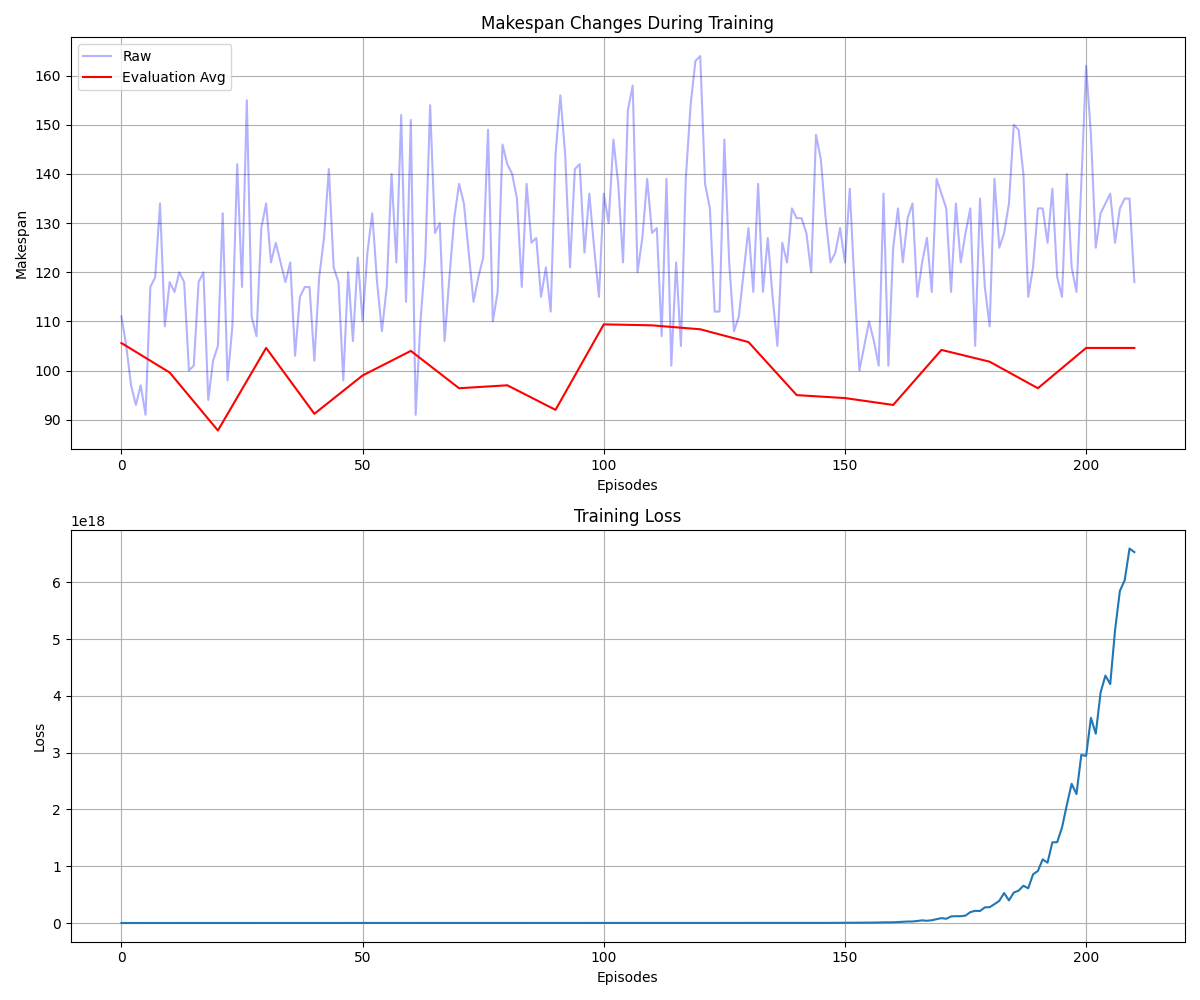
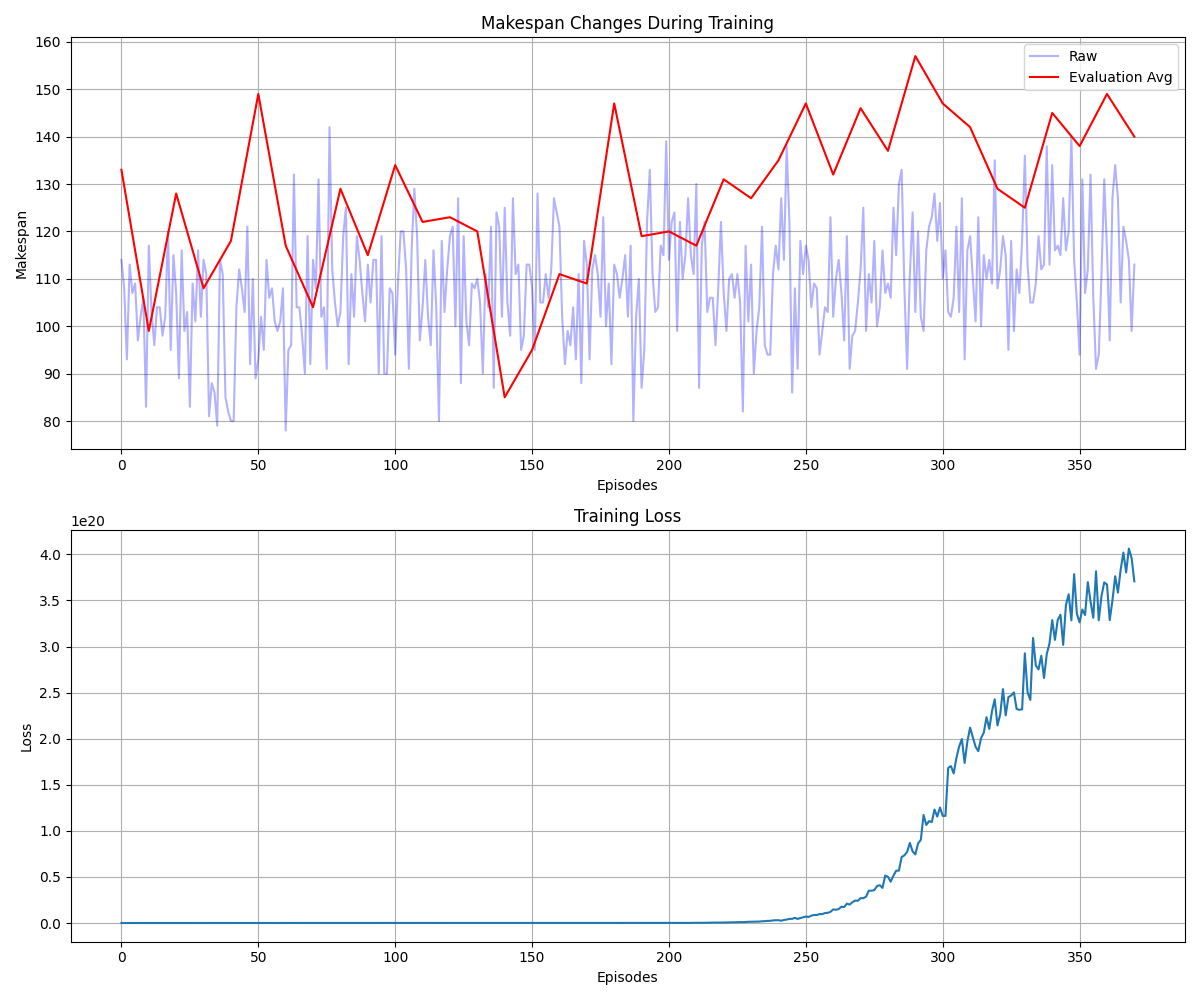
提升到79

diff --git a/train_dqn.py b/train_dqn.py
@@ -28,13 +28,18 @@ makespans = []
 avg_makespans = []  # 用于平滑的平均完工时间
 losses = []  # 记录损失
 
-# 收敛指标
+# 收敛指标 - 更合理的设置
 convergence_window = 50  # 检查连续50次评估的表现
-target_performance = 8  # 目标完工时间
-early_stopping_patience = 200  # 如果连续200轮没有改进，提前停止
+early_stopping_patience = 300  # 减少提前停止的耐心值
+target_performance = None  # 将在前100轮训练后动态设置
+min_epsilon = 0.05  # 最小探索率
 
 last_improvement = 0
 window_makespans = []
+
+# 在训练循环开始前添加探索率衰减逻辑
+epsilon = 1.0  # 初始探索率
+epsilon_decay = 0.998  # 每轮衰减率
 
 # 训练循环
 for episode in range(n_episodes):
@@ -56,14 +61,27 @@ for episode in range(n_episodes):
                 valid_actions.append(action)
         
         # 选择动作
-        action = agent.act(state, valid_actions)
+        action = agent.act(state, valid_actions, epsilon)
         
         # 执行动作
         next_state, reward, done, _ = env.step(action)
         
         # 增强奖励信号
-        if done and max(env.machine_available_time) <= 7:  # 如果完成且makespan很好
-            reward += 50  # 额外奖励
+        if done and max(env.machine_available_time) <= 60:  # 如果完成且makespan很好
+            reward += 500  # 额外奖励
+        
+        # 修改奖励函数 - 更加渐进的奖励
+        if done:
+            makespan = max(env.machine_available_time)
+            # 渐进式奖励，根据完工时间给予不同程度的奖励
+            if makespan <= 50:
+                reward += 100  # 非常出色的调度
+            elif makespan <= 60:
+                reward += 50  # 很好的调度
+            elif makespan <= 80:
+                reward += 20  # 良好的调度
+            elif makespan <= 90:
+                reward += 10  # 可接受的调度
         
         # 存储经验
         agent.remember(state, action, reward, next_state, done)
@@ -114,12 +132,12 @@ for episode in range(n_episodes):
                         action = op_idx * env.n_machines + machine_idx
                         eval_valid_actions.append(action)
                 
+                # 修正评估时的动作选择逻辑 - 使用纯贪婪策略
                 with torch.no_grad():
-                    eval_action = agent.act(eval_state, eval_valid_actions)
-                    eval_action = np.argmax(agent.q_network(torch.FloatTensor(eval_state.reshape(1, -1)).to(agent.device)).cpu().numpy()[0])
-                    # 确保选择的动作有效
-                    if eval_action not in eval_valid_actions:
-                        eval_action = np.random.choice(eval_valid_actions)
+                    q_values = agent.q_network(torch.FloatTensor(eval_state.reshape(1, -1)).to(agent.device)).cpu().numpy()[0]
+                    # 仅考虑有效动作
+                    valid_q_values = {a: q_values[a] for a in eval_valid_actions}
+                    eval_action = max(valid_q_values, key=valid_q_values.get)
                 
                 eval_next_state, _, eval_done, _ = env.step(eval_action)
                 eval_state = eval_next_state
@@ -130,11 +148,17 @@ for episode in range(n_episodes):
         avg_makespan = np.mean(eval_makespans)
         avg_makespans.append(avg_makespan)
         
+        # 动态设置目标完工时间
+        if episode == 100 and target_performance is None:
+            best_so_far = min(avg_makespans)
+            target_performance = max(best_so_far * 0.9, 8)  # 设置为当前最佳的90%或8，取较大值
+            print(f"Target performance dynamically set to: {target_performance}")
+        
         # 打印进度
         print(f"Episode {episode}/{n_episodes}, Makespan: {makespan}, Eval Avg: {avg_makespan:.1f}, Best: {best_makespan}")
         
         # 检查是否满足收敛条件
-        if avg_makespan <= target_performance:
+        if target_performance is not None and avg_makespan <= target_performance:
             print(f"Target performance reached at episode {episode}!")
             if episode > convergence_window and all(m <= target_performance * 1.1 for m in avg_makespans[-10:]):
                 print("Model converged to target performance. Stopping early.")
@@ -150,6 +174,11 @@ for episode in range(n_episodes):
         for param_group in agent.optimizer.param_groups:
             param_group['lr'] *= 0.9
         print(f"Learning rate adjusted to {agent.optimizer.param_groups[0]['lr']:.6f}")
+    
+    # 在每轮结束时更新探索率
+    epsilon = max(min_epsilon, epsilon * epsilon_decay)
+    if episode % test_freq == 0:
+        print(f"Current exploration rate (epsilon): {epsilon:.4f}")
 
 # 输出最佳调度结果
 print("\nBest Scheduling Result:")

diff --git a/Fjsp_env.py b/Fjsp_env.py
@@ -15,7 +15,7 @@ class FJSPEnvironment(gym.Env):
         # 计算总工序数
         self.total_ops = sum(len(job) for job in operations)
         
-        # 动作空间: 选择(工序, 机器)对
+        # 动作空间: 选择(工序, 机器)对，动作空间大小等于总工序数乘以机器数（这里动作空间肯定是大了，因为每个工序不是所有的机器都可以加工的）
         self.action_space = spaces.Discrete(self.total_ops * self.n_machines)
         
         # 观测空间
@@ -31,7 +31,7 @@ class FJSPEnvironment(gym.Env):
         
     def reset(self):
         """重置环境状态"""
-        # 作业状态: 当前工序索引
+        # 作业状态: 当前工序索引。创建一个列表，长度为作业数，每个元素初始化为0，表示每个作业的第一道工序未完成
         self.job_status = [0] * self.n_jobs
         
         # 机器状态: 每台机器的可用时间
@@ -65,8 +65,13 @@ class FJSPEnvironment(gym.Env):
             return self._get_observation(), reward, self.done, {}
         
         # 执行调度
+        # 通过工序索引获取作业索引和工序位置
         job_idx, op_pos = self._get_job_op_from_idx(op_idx)
-        op_options = self.operations[job_idx][op_pos]
+        
+        # 获取工序选项
+        # 这里假设operations是一个列表，包含每个作业的工序选项，每个工序选项是一个元组(机器索引, 加工时间)
+        # 例如：operations = [[(0, 2), (1, 3)], [(0, 4), (1, 1)]]表示作业1有两道工序，作业2也有两道工序
+        op_options = self.operations[job_idx][op_pos] 
         
         # 检查所选机器是否可以处理该工序
         valid_machines = [opt[0] for opt in op_options]
@@ -121,8 +126,8 @@ class FJSPEnvironment(gym.Env):
     
     def _decode_action(self, action):
         """解码动作为(工序索引, 机器索引)"""
-        op_idx = action // self.n_machines
-        machine_idx = action % self.n_machines
+        op_idx = action // self.n_machines      # action整除机器数得到工序索引 
+        machine_idx = action % self.n_machines  # action除以机器数取余得到机器索引
         return op_idx, machine_idx
     
     def _get_job_op_from_idx(self, op_idx):
@@ -198,7 +203,7 @@ class FJSPEnvironment(gym.Env):
         
         if self.done:
             # 完成所有工序，给予强化奖励
-            return 100 - current_makespan * 5  # 完成奖励，makespan越小奖励越大
+            return 1000 - current_makespan * 5  # 完成奖励，makespan越小奖励越大
         
         # 计算完成的工序百分比
         completed_ops = sum(self.job_status)

diff --git a/Dqn.py b/Dqn.py
@@ -85,11 +85,11 @@ class DQNAgent:
         self.device = torch.device("cuda" if torch.cuda.is_available() else "cpu")
         
         # 超参数调整
-        self.gamma = 0.99  # 增大折扣因子
+        self.gamma = 0.99  # 折扣因子
         self.epsilon = 1.0  # 探索率
-        self.epsilon_min = 0.05  # 提高最小探索率
-        self.epsilon_decay = 0.997  # 放缓衰减速度
-        self.learning_rate = 0.0005  # 降低学习率
+        self.epsilon_min = 0.05  # 最小探索率
+        self.epsilon_decay = 0.997  # 衰减速度
+        self.learning_rate = 0.0005  # 学习率
         self.update_target_freq = 50  # 更频繁地更新目标网络
         
         # 使用优先经验回放
@@ -128,30 +128,20 @@ class DQNAgent:
         """存储经验到回放缓冲区"""
         self.memory.add(state, action, reward, next_state, done)
     
-    def act(self, state, valid_actions=None):
+    def act(self, state, valid_actions, epsilon=None):
         """选择动作"""
-        if valid_actions is None:
-            valid_actions = list(range(self.action_size))
+        if epsilon is None:
+            epsilon = self.epsilon  # 使用默认值
         
-        # 加入周期性探索策略
-        if np.random.rand() <= max(self.epsilon, self.epsilon_min + 0.1 * np.sin(self.train_step_counter/100)):
-            # 探索: 随机选择一个有效动作
-            return random.choice(valid_actions)
+        if np.random.rand() <= epsilon:
+            return np.random.choice(valid_actions)
         
-        # 转换状态为张量
-        state_tensor = torch.FloatTensor(state.reshape(1, -1)).to(self.device)
-        
-        # 开发: 选择Q值最大的有效动作
+        state = torch.FloatTensor(state.reshape(1, -1)).to(self.device)
         with torch.no_grad():
-            act_values = self.q_network(state_tensor).cpu().numpy()[0]
-        
-        # 屏蔽无效动作
-        invalid_mask = np.ones(self.action_size) * float('-inf')
-        for a in valid_actions:
-            invalid_mask[a] = 0
-        masked_act_values = act_values + invalid_mask
-        
-        return np.argmax(masked_act_values)
+            q_values = self.q_network(state).cpu().numpy()[0]
+            # 仅考虑有效动作
+            valid_q_values = {a: q_values[a] for a in valid_actions}
+            return max(valid_q_values, key=valid_q_values.get)
     
     def replay(self, batch_size):
         """从经验回放中采样并训练网络"""
